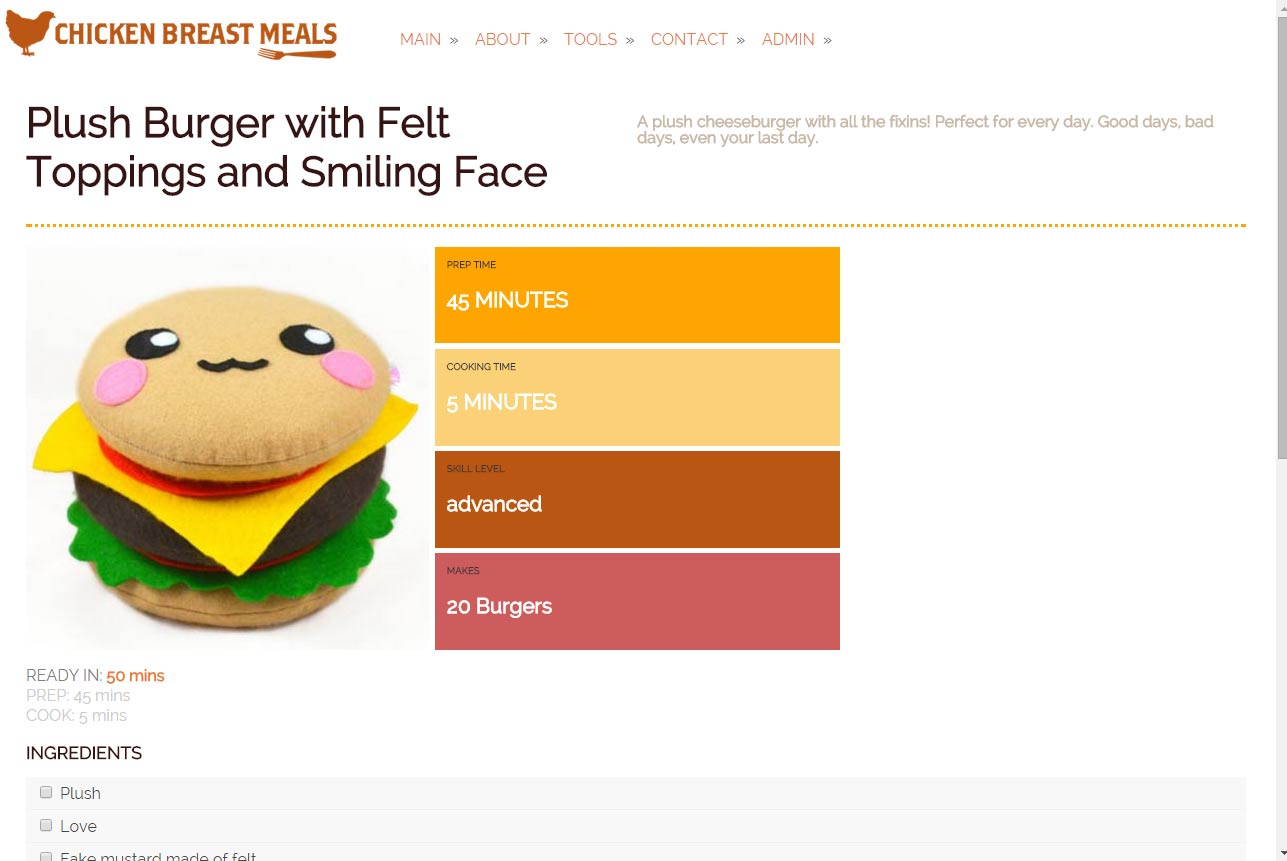
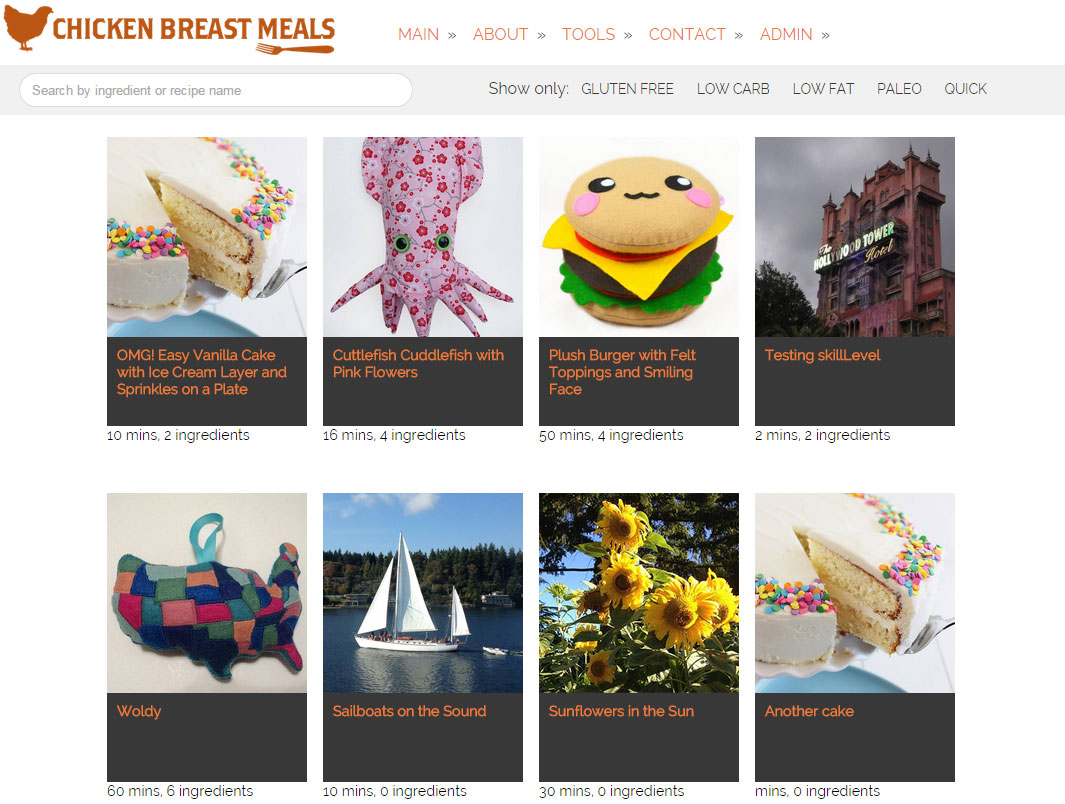
Updating readme.md with install steps and new images

diff --git a/README.md b/README.md
@@ -1,8 +1,16 @@
 ChickenBreastMeals.com
 ======================
 
-Chicken Breast Meals is a recipe website I designed and developed using AngularJS, Node, Express, MongoDB and other cool web technologies.
+Chicken Breast Meals is a recipe website I designed and developed using AngularJS, Node, Express, MongoDB, and other web technologies. 
 
-Here's a recent screenshot:
+To use:
+1. Clone the repo to your local environment
+2. Run '''npm install'''
+3. Run '''bower install'''
+4. Type '''grunt default'''
+5. Open http://localhost:3000
 
-![alt text](screenshots/cbm_app_screenshot_10_30_2014.jpg "Chicken Breast Meals as of 10/30/2014")
+Screenshots:
+
+![alt text](screenshots/cbm_app_screenshot_11_3_2014.jpg "Chicken Breast Meals main view as of 11/3/2014")
+![alt text](screenshots/cbm_app_screenshot_11_4_2014.jpg "Chicken Breast Meals recipe view as of 11/4/2014")
